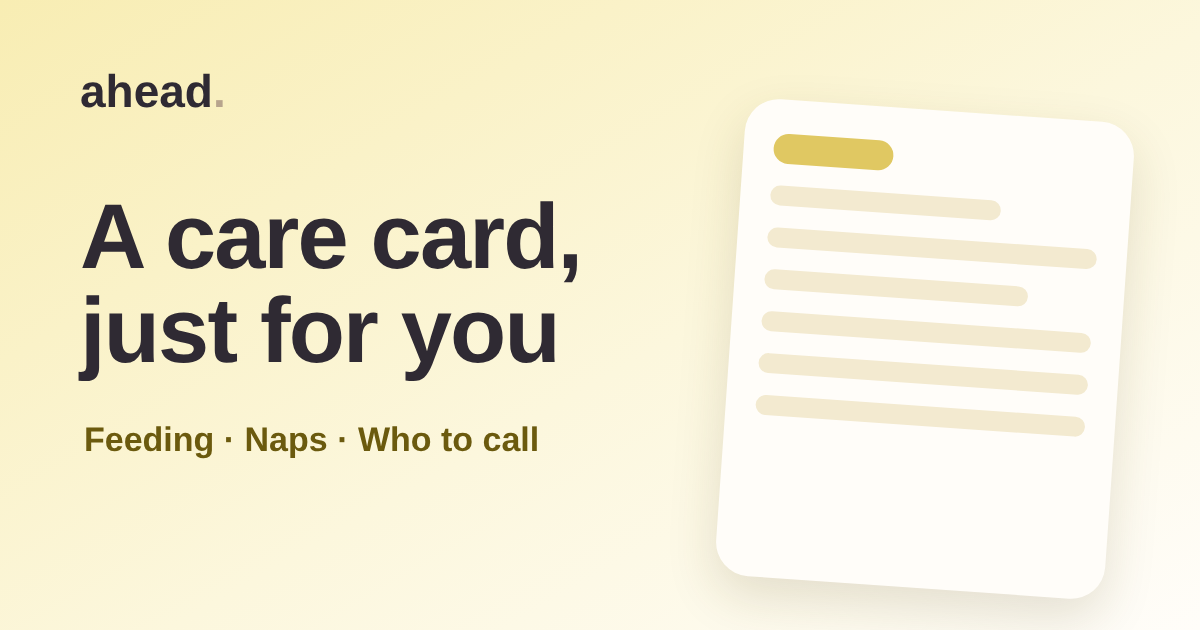
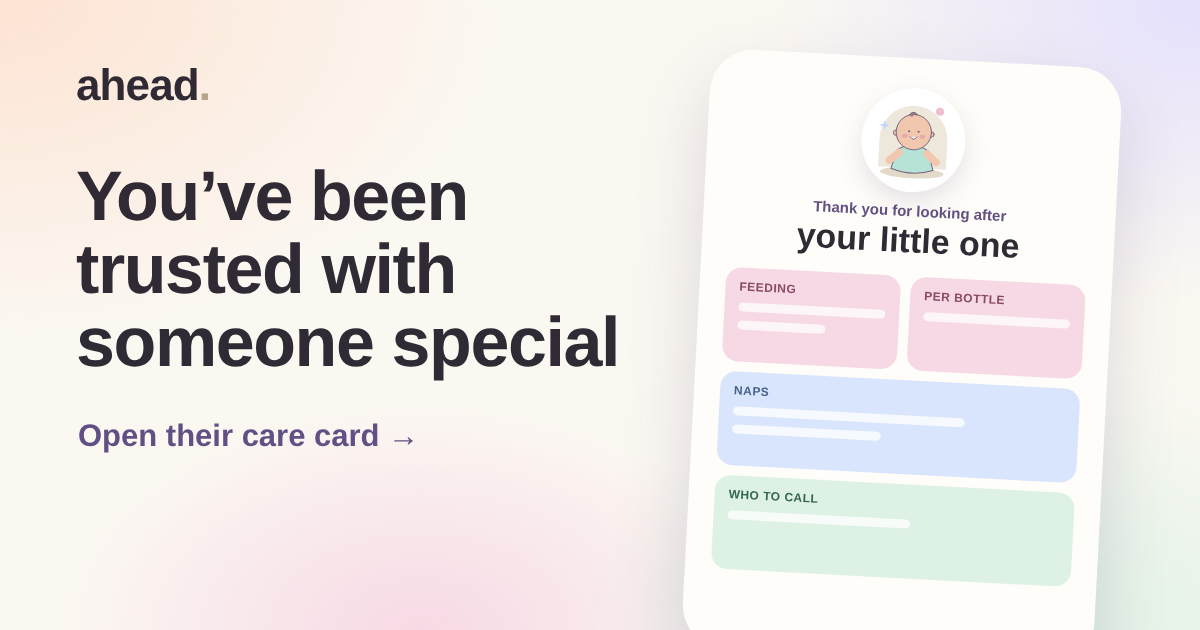
Shared care card redesigned: warm welcome, the day as tiles, tap-to-call, safe-sleep panel, Try Ahead invite; new link preview image
Claude-Session: https://claude.ai/code/session_01Dbdd21tbADzCY6u4CBjsEV

diff --git a/card.html b/card.html
@@ -1,56 +1,94 @@
 <!doctype html>
 <html lang="en"><head><meta charset="utf-8"><meta name="viewport" content="width=device-width,initial-scale=1,viewport-fit=cover">
 <title>A care card from Ahead</title>
-<meta name="description" content="Everything you need to look after the baby: feeding, naps, what helps, and who to call.">
-<!-- The link preview in Messages, WhatsApp and email. The card itself travels in the link after the #, so it never reaches a server. -->
-<meta property="og:type" content="website">
-<meta property="og:site_name" content="Ahead">
-<meta property="og:title" content="A care card from Ahead">
-<meta property="og:description" content="Feeding, naps, what helps, and who to call. Tap to open.">
+<meta name="description" content="Everything you need to look after the little one: feeding, naps, what helps, and who to call.">
+<!-- The preview in Messages, WhatsApp and email. The card's details travel in the link after the #, so they never reach a server. -->
+<meta property="og:type" content="website"><meta property="og:site_name" content="Ahead">
+<meta property="og:title" content="You’ve been trusted with someone special">
+<meta property="og:description" content="Their care card: feeding, naps, what helps and who to call.">
 <meta property="og:url" content="https://yardenwalla.github.io/ahead-prototype/card.html">
 <meta property="og:image" content="https://yardenwalla.github.io/ahead-prototype/docs/card-preview.png">
 <meta property="og:image:width" content="1200"><meta property="og:image:height" content="630">
-<meta name="twitter:card" content="summary_large_image">
-<meta name="theme-color" content="#f8edb3">
+<meta name="twitter:card" content="summary_large_image"><meta name="theme-color" content="#fbe9e2">
 <link rel="preconnect" href="https://fonts.googleapis.com"><link rel="preconnect" href="https://fonts.gstatic.com" crossorigin>
-<link href="https://fonts.googleapis.com/css2?family=Figtree:wght@400;500;600;700&family=Nunito:wght@700;800&display=swap" rel="stylesheet">
+<link href="https://fonts.googleapis.com/css2?family=Figtree:wght@400;500;600;700&family=Nunito:wght@700;800;900&display=swap" rel="stylesheet">
 <style>
-:root { --bg: #f7f4ee; --ink: #2f2a33; --muted: #6f6860; --gold: #6b5a0e; --sun: #f8edb3; --pale: #fcf7dd; --line: #ece4cf; --card: #fffdf9 }
+:root { --bg: #fbf8f2; --ink: #2f2a33; --muted: #6f6870; --line: #eee7dc; --card: #fffdf9;
+  --feed: #f7d9e5; --feed-ink: #884866; --sleep: #d9e5fc; --sleep-ink: #46638c; --dev: #e5e0fc; --dev-ink: #625084; --health: #ddf1e5; --health-ink: #356651; --sun: #f8edb3; --sun-ink: #6b5a0e }
 * { box-sizing: border-box }
-body { margin: 0; background: var(--bg); color: var(--ink); font: 16px/1.5 Figtree, system-ui, -apple-system, sans-serif }
-main { max-width: 480px; margin: 0 auto; padding: max(28px, env(safe-area-inset-top)) max(18px, env(safe-area-inset-right)) 40px max(18px, env(safe-area-inset-left)) }
-.brand { font: 800 26px/1 Nunito, Figtree, sans-serif; letter-spacing: -.02em; color: var(--ink) } .brand span { color: #b7a48d }
-.card { margin-top: 22px; border-radius: 28px; overflow: hidden; background: var(--card); border: 1px solid var(--line); box-shadow: 0 10px 30px rgba(80, 64, 20, .08) }
-.top { padding: 26px 22px 22px; background: linear-gradient(165deg, var(--sun) 0%, var(--pale) 70%, var(--card) 100%) }
-.eyebrow { font-size: 13px; font-weight: 700; color: var(--gold); letter-spacing: .02em }
-h1 { margin: 4px 0 4px; font: 800 34px/1.1 Nunito, Figtree, sans-serif; letter-spacing: -.01em }
-.from { margin: 0; color: var(--muted); font-size: 14px }
-.rows { padding: 4px 22px 8px }
-.row { display: grid; grid-template-columns: 34px 1fr; gap: 12px; padding: 14px 0; border-top: 1px solid var(--line) }
-.row:first-child { border-top: 0 }
-.ic { width: 34px; height: 34px; border-radius: 50%; background: var(--pale); display: grid; place-items: center; font-size: 17px }
-.row b { display: block; font-size: 13px; color: var(--gold); font-weight: 700 }
-.row span { display: block; font-size: 16px; line-height: 1.45 }
-.row a { white-space: nowrap; color: var(--ink); font-weight: 700; text-decoration: underline; text-underline-offset: 3px }
-.always { margin: 4px 22px 22px; padding: 14px 16px; border-radius: 16px; background: var(--pale); font-weight: 600; line-height: 1.45 }
-.always b { display: block; font-size: 13px; color: var(--gold) }
-.foot { margin: 18px 4px 0; text-align: center; font-size: 13px; color: var(--muted) }
+html { background: var(--bg) }
+body { margin: 0; color: var(--ink); font: 16px/1.5 Figtree, system-ui, -apple-system, sans-serif; background:
+  radial-gradient(120% 60% at 0% 0%, #fde3d3 0%, transparent 55%), radial-gradient(90% 55% at 100% 0%, #e5e0fc 0%, transparent 60%),
+  radial-gradient(80% 40% at 60% 18%, #d9e5fc 0%, transparent 60%), var(--bg); background-repeat: no-repeat }
+main { max-width: 480px; margin: 0 auto; padding: max(22px, env(safe-area-inset-top)) max(18px, env(safe-area-inset-right)) max(30px, env(safe-area-inset-bottom)) max(18px, env(safe-area-inset-left)) }
+.brand { font: 800 24px/1 Nunito, Figtree, sans-serif; letter-spacing: -.02em } .brand span { color: #b7a48d }
+.hero { text-align: center; padding: 18px 8px 8px }
+.baby { position: relative; width: 132px; height: 132px; margin: 6px auto 12px; border-radius: 50%; background: #fffdf9; box-shadow: 0 14px 34px rgba(98, 80, 132, .16); display: grid; place-items: center }
+.baby svg { width: 96px; height: 108px }
+.baby i { position: absolute; border-radius: 50%; } .baby i:nth-of-type(1) { width: 12px; height: 12px; background: #f0bfce; left: -6px; top: 30px }
+.baby i:nth-of-type(2) { width: 9px; height: 9px; background: #c3d7fb; right: -2px; top: 14px } .baby i:nth-of-type(3) { width: 10px; height: 10px; background: #f1d697; right: 4px; bottom: 18px }
+.hello { margin: 0; font-size: 14px; font-weight: 700; color: var(--dev-ink); letter-spacing: .02em }
+h1 { margin: 2px 0 8px; font: 900 40px/1.05 Nunito, Figtree, sans-serif; letter-spacing: -.02em; text-wrap: balance }
+.intro { margin: 0 auto; max-width: 30ch; color: var(--muted); font-size: 16px }
+.updated { display: inline-block; margin-top: 12px; padding: 4px 12px; border-radius: 999px; background: rgba(255, 253, 249, .8); border: 1px solid var(--line); font-size: 13px; color: var(--muted) }
+section { margin-top: 18px; padding: 18px; border-radius: 24px; background: var(--card); border: 1px solid var(--line); box-shadow: 0 6px 22px rgba(80, 60, 40, .05) }
+h2 { margin: 0 0 12px; font: 800 19px/1.2 Nunito, Figtree, sans-serif; display: flex; align-items: center; gap: 8px }
+h2 .dot { width: 30px; height: 30px; border-radius: 50%; display: grid; place-items: center; font-size: 15px }
+.tiles { display: grid; grid-template-columns: 1fr 1fr; gap: 10px }
+.tile { padding: 12px 14px; border-radius: 16px; min-width: 0 } .tile.wide { grid-column: 1 / -1 }
+.tile b { display: block; font-size: 12px; font-weight: 700; letter-spacing: .02em; text-transform: uppercase; opacity: .85 }
+.tile span { display: block; font-size: 17px; font-weight: 700; line-height: 1.3; margin-top: 2px; color: var(--ink) }
+.tile small { display: block; font-size: 14px; color: var(--muted); margin-top: 2px }
+.feed { background: var(--feed); color: var(--feed-ink) } .sleep { background: var(--sleep); color: var(--sleep-ink) }
+.times { display: flex; flex-wrap: wrap; gap: 6px; margin-top: 6px } .times em { font-style: normal; font-size: 14px; font-weight: 700; padding: 4px 10px; border-radius: 999px; background: rgba(255, 255, 255, .7); color: var(--ink) }
+.chips { display: flex; flex-wrap: wrap; gap: 8px } .chips span { padding: 8px 14px; border-radius: 999px; background: var(--dev); color: var(--dev-ink); font-weight: 700; font-size: 15px }
+.note { margin: 12px 0 0; color: var(--muted); font-size: 15px }
+.facts p { margin: 0; padding: 10px 0; border-top: 1px solid var(--line); display: grid; grid-template-columns: 120px 1fr; gap: 10px } .facts p:first-of-type { border-top: 0; padding-top: 0 }
+.facts p b { font-size: 14px; color: var(--muted); font-weight: 600 }
+.calls { display: grid; gap: 10px }
+.call { display: flex; align-items: center; gap: 12px; padding: 12px 14px; border-radius: 18px; background: var(--health); color: var(--ink); text-decoration: none }
+.call i { flex: none; width: 42px; height: 42px; border-radius: 50%; background: #fffdf9; display: grid; place-items: center; font-style: normal; font-size: 19px }
+.call b { display: block; font-size: 16px } .call small { white-space: nowrap } .call small { display: block; color: var(--health-ink); font-weight: 600; font-size: 14px } .call.is-doc { background: #f4f1ec } .call.is-doc small { color: var(--muted) }
+.call em { margin-left: auto; font-style: normal; font-weight: 800; font-size: 14px; color: var(--health-ink); padding: 6px 12px; border-radius: 999px; background: #fffdf9 }
+.always { background: linear-gradient(160deg, #233456, #3d4f7a); color: #fff; border: 0 }
+.always h2 { color: #fff } .always h2 .dot { background: rgba(255, 255, 255, .14) } .always p { margin: 0; font-size: 17px; font-weight: 600; line-height: 1.45 }
+.always small { display: block; margin-top: 8px; opacity: .78; font-size: 14px }
+.thanks { text-align: center; margin: 22px 8px 0; color: var(--muted); font-size: 15px }
+.ahead { margin-top: 26px; padding: 22px 20px; border-radius: 26px; text-align: left; border: 0; color: var(--ink);
+  background: linear-gradient(100deg, #fde3d3 0%, #f7d9e5 28%, #e5e0fc 56%, #d9e5fc 80%, #ddf1e5 100%) }
+.ahead .brand { font-size: 22px } .ahead p { margin: 8px 0 14px; font-size: 16px; line-height: 1.45 }
+.ahead a { display: inline-flex; align-items: center; gap: 6px; padding: 12px 18px; border-radius: 14px; background: var(--ink); color: #fff; text-decoration: none; font-weight: 700 }
 .empty { margin-top: 30px; padding: 24px; border-radius: 22px; background: var(--card); border: 1px solid var(--line); text-align: center; color: var(--muted) }
 </style></head>
 <body><main><div class="brand">ahead<span>.</span></div><div id="out"></div></main>
 <script>
 (function () {
-  const out = document.getElementById('out');
+  const out = document.getElementById('out'), BABY = `<svg xmlns="http://www.w3.org/2000/svg" viewBox="0 0 112 126" fill="none" data-illustration-family="ahead-soft"><path d="M6 62a50 50 0 0 1 100 0v42H6Z" fill="#eee7db"/><ellipse cx="56" cy="111" rx="47" ry="8" fill="#e3d9c9"/><g stroke="#77647f" stroke-width="1.5" stroke-linecap="round" stroke-linejoin="round"><path d="M33 78q23-15 46 0l8 28q-31 11-62 0Z" fill="#b7e3d7"/><path d="m36 82-14 12m55-12 14 12" stroke="#f1c7ae" stroke-width="11"/></g><g stroke="#77647f" stroke-width="1.4" stroke-linecap="round" stroke-linejoin="round"><circle cx="30" cy="53" r="4" fill="#f1c7ae"/><circle cx="82" cy="53" r="4" fill="#f1c7ae"/><circle cx="56" cy="51" r="26" fill="#f1c7ae"/><path d="M48 26q5-8 12-1-7-2-8 3" fill="#a18178"/><circle cx="49" cy="50" r="1.6" fill="#77647f" stroke="none"/><circle cx="63" cy="50" r="1.6" fill="#77647f" stroke="none"/><ellipse cx="43" cy="57" rx="4.5" ry="3" fill="#eaa7ac" stroke="none"/><ellipse cx="69" cy="57" rx="4.5" ry="3" fill="#eaa7ac" stroke="none"/><path d="M51 58q5 7 10 0" fill="#fff9f1"/></g><circle cx="93" cy="19" r="6" fill="#f0bfce"/><path d="M8 43h9m-4.5-4.5v9" stroke="#c3d7fb" stroke-width="3" stroke-linecap="round"/></svg>`;
   const esc = s => String(s == null ? '' : s).replace(/[&<>"]/g, c => ({ '&': '&amp;', '<': '&lt;', '>': '&gt;', '"': '&quot;' }[c]));
   let d = null;
-  try { const raw = location.hash.slice(1).replace(/-/g, '+').replace(/_/g, '/'); d = JSON.parse(decodeURIComponent(escape(atob(raw)))); } catch (e) {}
+  try { d = JSON.parse(decodeURIComponent(escape(atob(location.hash.slice(1).replace(/-/g, '+').replace(/_/g, '/'))))); } catch (e) {}
   if (!d || !d.n) { out.innerHTML = '<div class="empty">This care card link looks incomplete. Ask whoever sent it to share it again.</div>'; return; }
-  const icon = { Feeding: '🍼', Sleep: '🌙', 'Nap times': '🕘', Bedtime: '🛏', 'What helps': '🎵', 'Allergies and medicines': '💊', Pediatrician: '🩺', 'Call us': '📞', Or: '📞', Also: '✏' };
-  // Phone numbers become tap-to-call links.
-  const phones = v => esc(v).replace(/(\+?\(?\d[\d\s().-]{6,}\d)/g, m => `<a href="tel:${m.replace(/[^\d+]/g, '')}">${m}</a>`);
+  const n = esc(d.n), they = d.s || 'they', them = d.o || 'them', cap = s => s.charAt(0).toUpperCase() + s.slice(1);
+  const tel = p => String(p || '').replace(/[^\d+]/g, '');
   document.title = `${d.n}’s care card`;
-  out.innerHTML = `<article class="card"><div class="top"><div class="eyebrow">Care card</div><h1>${esc(d.n)}</h1>${d.f ? `<p class="from">From ${esc(d.f)}${d.d ? ' · ' + esc(d.d) : ''}</p>` : d.d ? `<p class="from">Updated ${esc(d.d)}</p>` : ''}</div>
-    <div class="rows">${(d.r || []).map(([l, v]) => `<div class="row"><span class="ic" aria-hidden="true">${icon[l] || '•'}</span><div><b>${esc(l)}</b><span>${phones(v)}</span></div></div>`).join('')}</div>
-    ${d.a ? `<p class="always"><b>Always</b>${esc(d.a)}</p>` : ''}</article><p class="foot">Made with Ahead, a guide for the first year.</p>`;
+  let h = `<div class="hero"><div class="baby">${BABY}<i></i><i></i><i></i></div><p class="hello">Thank you for looking after</p><h1>${n}</h1><p class="intro">Everything you need, in one place. Keep it handy while you’re together.</p>${d.d ? `<span class="updated">Updated ${esc(d.d)}</span>` : ''}</div>`;
+  // The day: feeding and sleep as colored tiles.
+  const tiles = [];
+  if (d.milk || d.often) tiles.push(`<div class="tile feed${d.oz ? '' : ' wide'}"><b>Feeding</b><span>${esc(d.milk || 'Milk')}</span>${d.often ? `<small>${esc(d.often)}</small>` : ''}</div>`);
+  if (d.oz) tiles.push(`<div class="tile feed"><b>Per bottle</b><span>About ${esc(d.oz)}</span>${d.solids && d.solids !== 'Not yet' ? `<small>Solids: ${esc(d.solids.toLowerCase())}</small>` : ''}</div>`);
+  if (d.naps || (d.times || []).length) tiles.push(`<div class="tile sleep wide"><b>Naps</b><span>${d.naps ? esc(d.naps) + (d.naps === '1' ? ' nap' : ' naps') + ' a day' : 'Naps'}</span>${(d.times || []).length ? `<div class="times">${d.times.map(t => `<em>${esc(t)}</em>`).join('')}</div>` : ''}</div>`);
+  if (d.bed) tiles.push(`<div class="tile sleep${(d.asleep || []).length ? '' : ' wide'}"><b>Bedtime</b><span>${esc(d.bed)}</span></div>`);
+  if ((d.asleep || []).length) tiles.push(`<div class="tile sleep${d.bed ? '' : ' wide'}"><b>Falls asleep with</b><span>${esc(d.asleep.join(', '))}</span></div>`);
+  if (tiles.length) h += `<section><h2><span class="dot" style="background:var(--feed)">🍼</span>The day</h2><div class="tiles">${tiles.join('')}</div></section>`;
+  if ((d.calm || []).length) h += `<section><h2><span class="dot" style="background:var(--dev)">🎵</span>If ${esc(they)}${they === 'they' ? '’re' : '’s'} upset, try</h2><div class="chips">${d.calm.map(c => `<span>${esc(cap(c))}</span>`).join('')}</div></section>`;
+  const facts = [d.allergy && ['Allergies', d.allergy], d.other && ['Also', d.other]].filter(Boolean);
+  if (facts.length) h += `<section class="facts"><h2><span class="dot" style="background:var(--sun)">✏</span>Good to know</h2>${facts.map(([l, v]) => `<p><b>${l}</b><span>${esc(v)}</span></p>`).join('')}</section>`;
+  const calls = (d.c || []).filter(c => c[0] || c[1]).map(([nm, ph]) => `<a class="call" href="${ph ? 'tel:' + tel(ph) : '#'}"><i>📞</i><span><b>${esc(nm || 'Call')}</b><small>${esc(ph)}</small></span>${ph ? '<em>Call</em>' : ''}</a>`);
+  if (d.doc && (d.doc[0] || d.doc[1])) calls.push(`<a class="call is-doc" href="${d.doc[1] ? 'tel:' + tel(d.doc[1]) : '#'}"><i>🩺</i><span><b>${esc(d.doc[0] || 'Pediatrician')}</b><small>Pediatrician${d.doc[1] ? ' · ' + esc(d.doc[1]) : ''}</small></span>${d.doc[1] ? '<em>Call</em>' : ''}</a>`);
+  if (calls.length) h += `<section><h2><span class="dot" style="background:var(--health)">📞</span>Who to call</h2><div class="calls">${calls.join('')}</div><p class="note">In an emergency, call 911 first.</p></section>`;
+  h += `<section class="always"><h2><span class="dot">🌙</span>Every sleep, every time</h2><p>${esc(d.a || '')}</p><small>No blankets, pillows or bumpers. Car seats, swings and couches aren’t for sleep.</small></section>`;
+  h += `<p class="thanks">Thank you for helping. ${n} is lucky to have you. 💛</p>`;
+  h += `<section class="ahead"><div class="brand">ahead<span>.</span></div><p>${n}’s family made this card with Ahead, a calm guide to a baby’s first year. Expecting, or know someone who is?</p><a href="https://yardenwalla.github.io/ahead-prototype/">Try Ahead, it’s free →</a></section>`;
+  out.innerHTML = h;
 })();
 </script></body></html>

diff --git a/js/childcare.js b/js/childcare.js
@@ -220,7 +220,14 @@
   // The card's details ride in the link after the #, so they open on the caregiver's phone and never reach a server.
   const CARD_URL = 'https://yardenwalla.github.io/ahead-prototype/card.html';
   window.ccCardLink = function () {
-    const data = { n: name(), d: new Date().toLocaleDateString('en-US', { month: 'long', day: 'numeric' }), r: cardLines(card()), a: ALWAYS() };
+    const c = card(), P = babyPronouns(), n = c.naps === '4 or more' ? 4 : Number(c.naps) || 0;
+    const low = (a, own) => (a || []).map((x, i) => x === 'On their own' ? own : i ? x.toLowerCase() : x);
+    const data = { n: name(), s: P.s, o: P.o, p: P.p, d: new Date().toLocaleDateString('en-US', { month: 'long', day: 'numeric' }),
+      milk: c.milk, often: c.often, oz: c.milk && c.milk !== 'Breast milk' ? c.oz : null, solids: c.solids, naps: c.naps,
+      times: (c.napTimes || []).slice(0, n).filter(Boolean).map(clock), bed: clock(c.bedtime), asleep: low(c.asleep, `On ${P.p} own`), calm: low(c.calm),
+      allergy: c.allergy ? (c.allergy === 'Yes' ? (c.allergyText || 'Yes, please ask us') : 'None known') : null, other: c.other,
+      c: [[c.c1Name, c.c1Phone], [c.c2Name, c.c2Phone]], doc: [c.docName, c.docPhone], a: ALWAYS() };
+    Object.keys(data).forEach(k => { if (data[k] == null || data[k] === '' || (Array.isArray(data[k]) && !data[k].length)) delete data[k]; });
     const b64 = btoa(unescape(encodeURIComponent(JSON.stringify(data)))).replace(/\+/g, '-').replace(/\//g, '_').replace(/=+$/, '');
     return `${CARD_URL}#${b64}`;
   };
